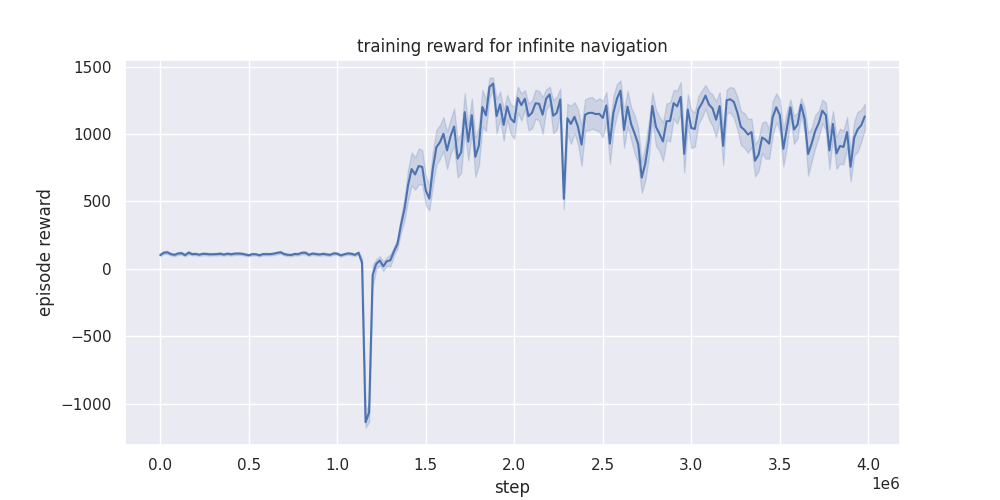
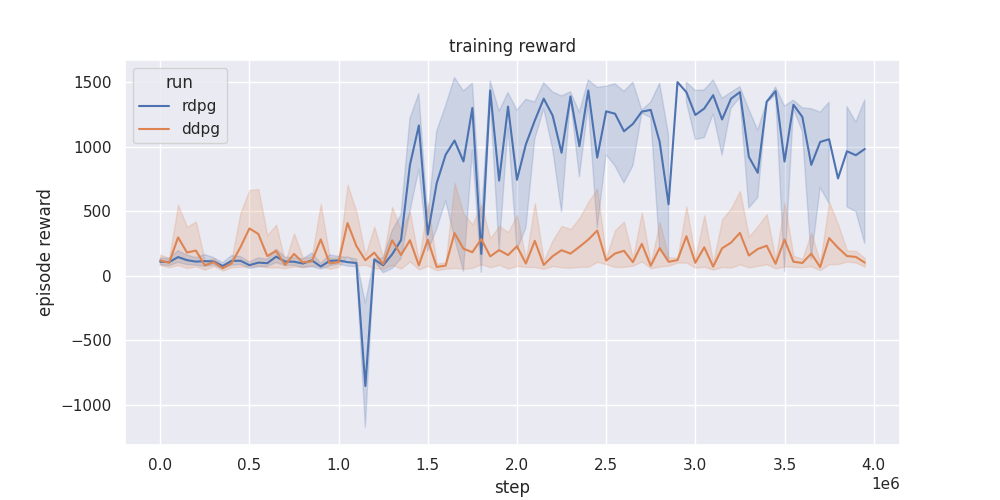
reward

diff --git a/projects/deeprl-mmWave.html b/projects/deeprl-mmWave.html
@@ -131,15 +131,18 @@
 				<h1>Deep reinforcement learning</h1>
 
 				<div class="wrapper-center">
-					<p>Episode return reward of agent training using Recurrent Deterministic Policy Gradient.</p>
+					<p>model structure</p>
+					<img src="img/model.jpeg" width="550">
+					<br><br><br>
+					<p>Episode return reward with standard deviation of agent training using RDPG and DDPG.</p>
 					<img src="img/score.png" width="550">
-					<br><br>
+					<br><br><br>
 					<p>Performance evaluation of agents trained using different RL algorithms. We considered a safe
 						navigation without collision a trial. A trial was terminated when the robot collided walls or
 						obstacles, reached to a maximum distance of 1.2 kilometers, or manually stopped by human
 						intervention. The travelled distance was estimated by the wheel encoders provided by the
 						Clearpath Husky robots.</p>
-					<img src="img/rl_eval.png" width="300">
+					<img src="img/rl_eval.png" width="400">
 				</div>
 				<br><br><br>
 
